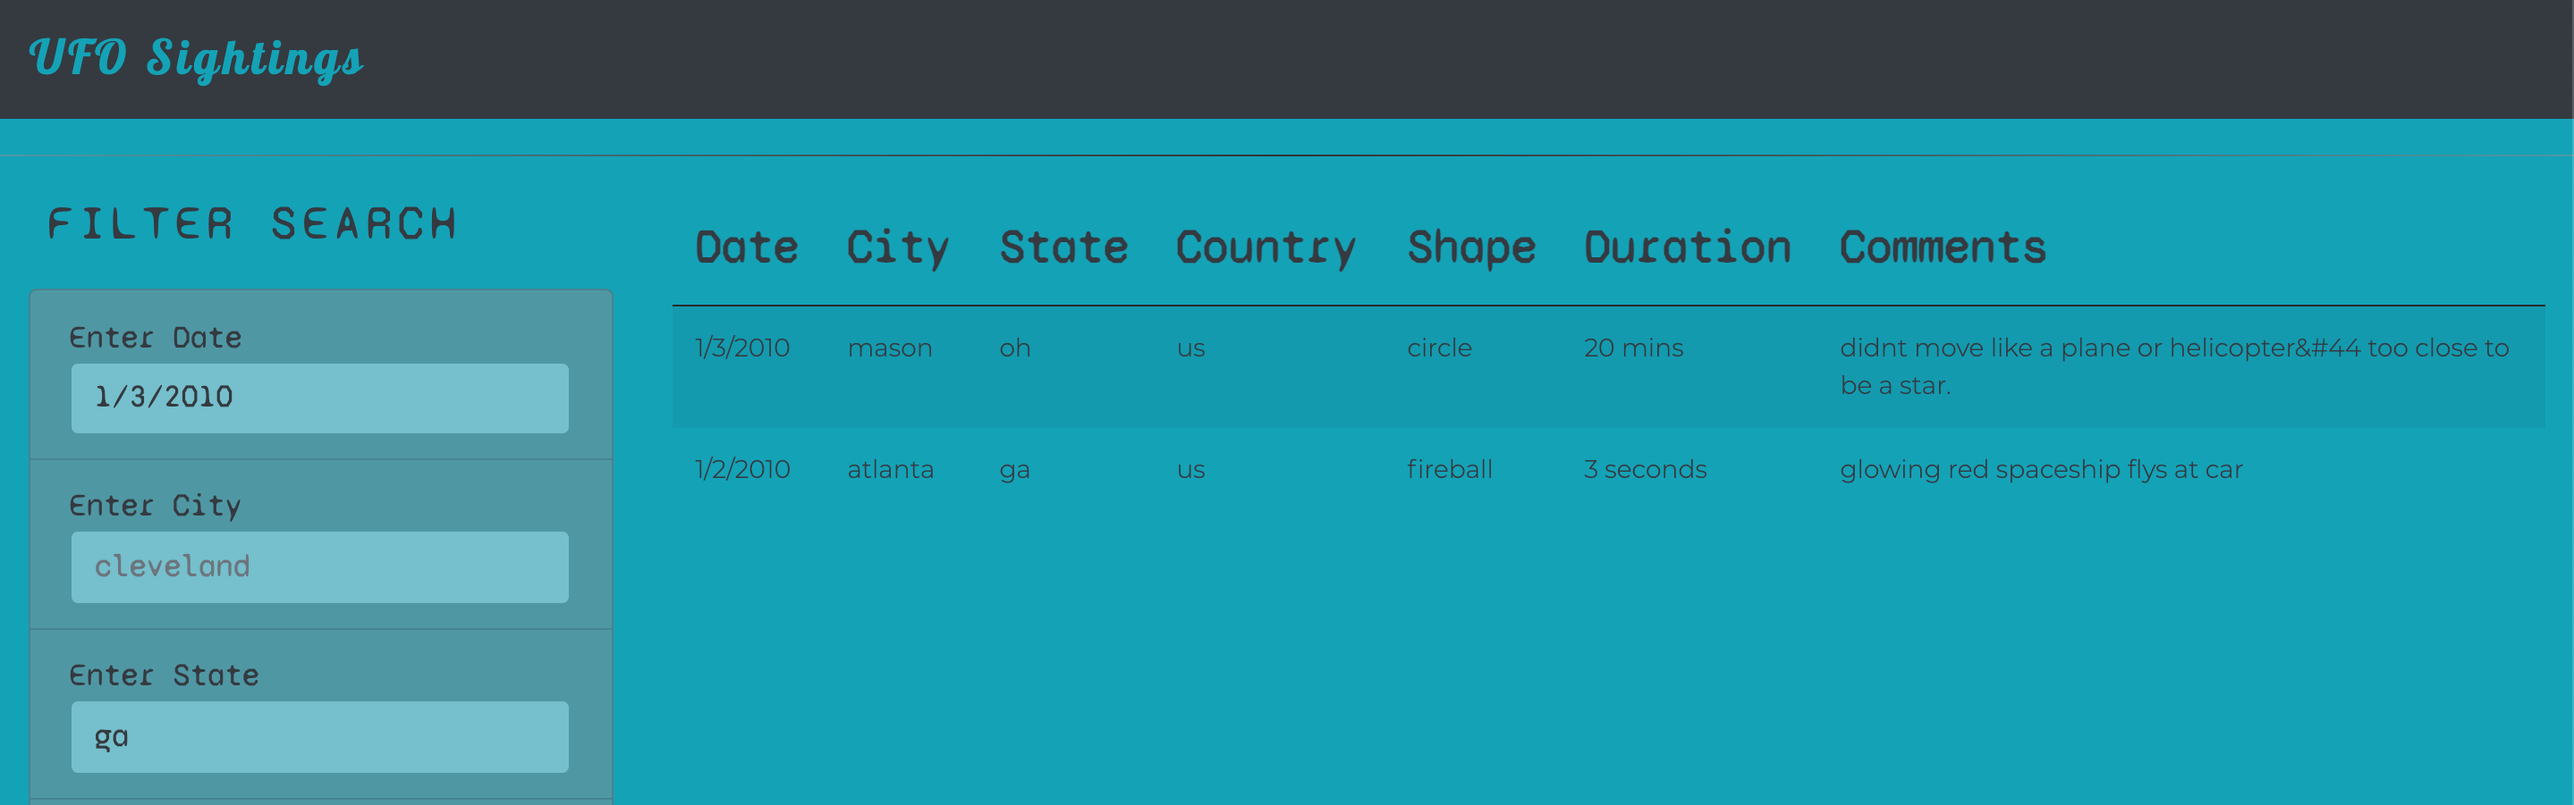
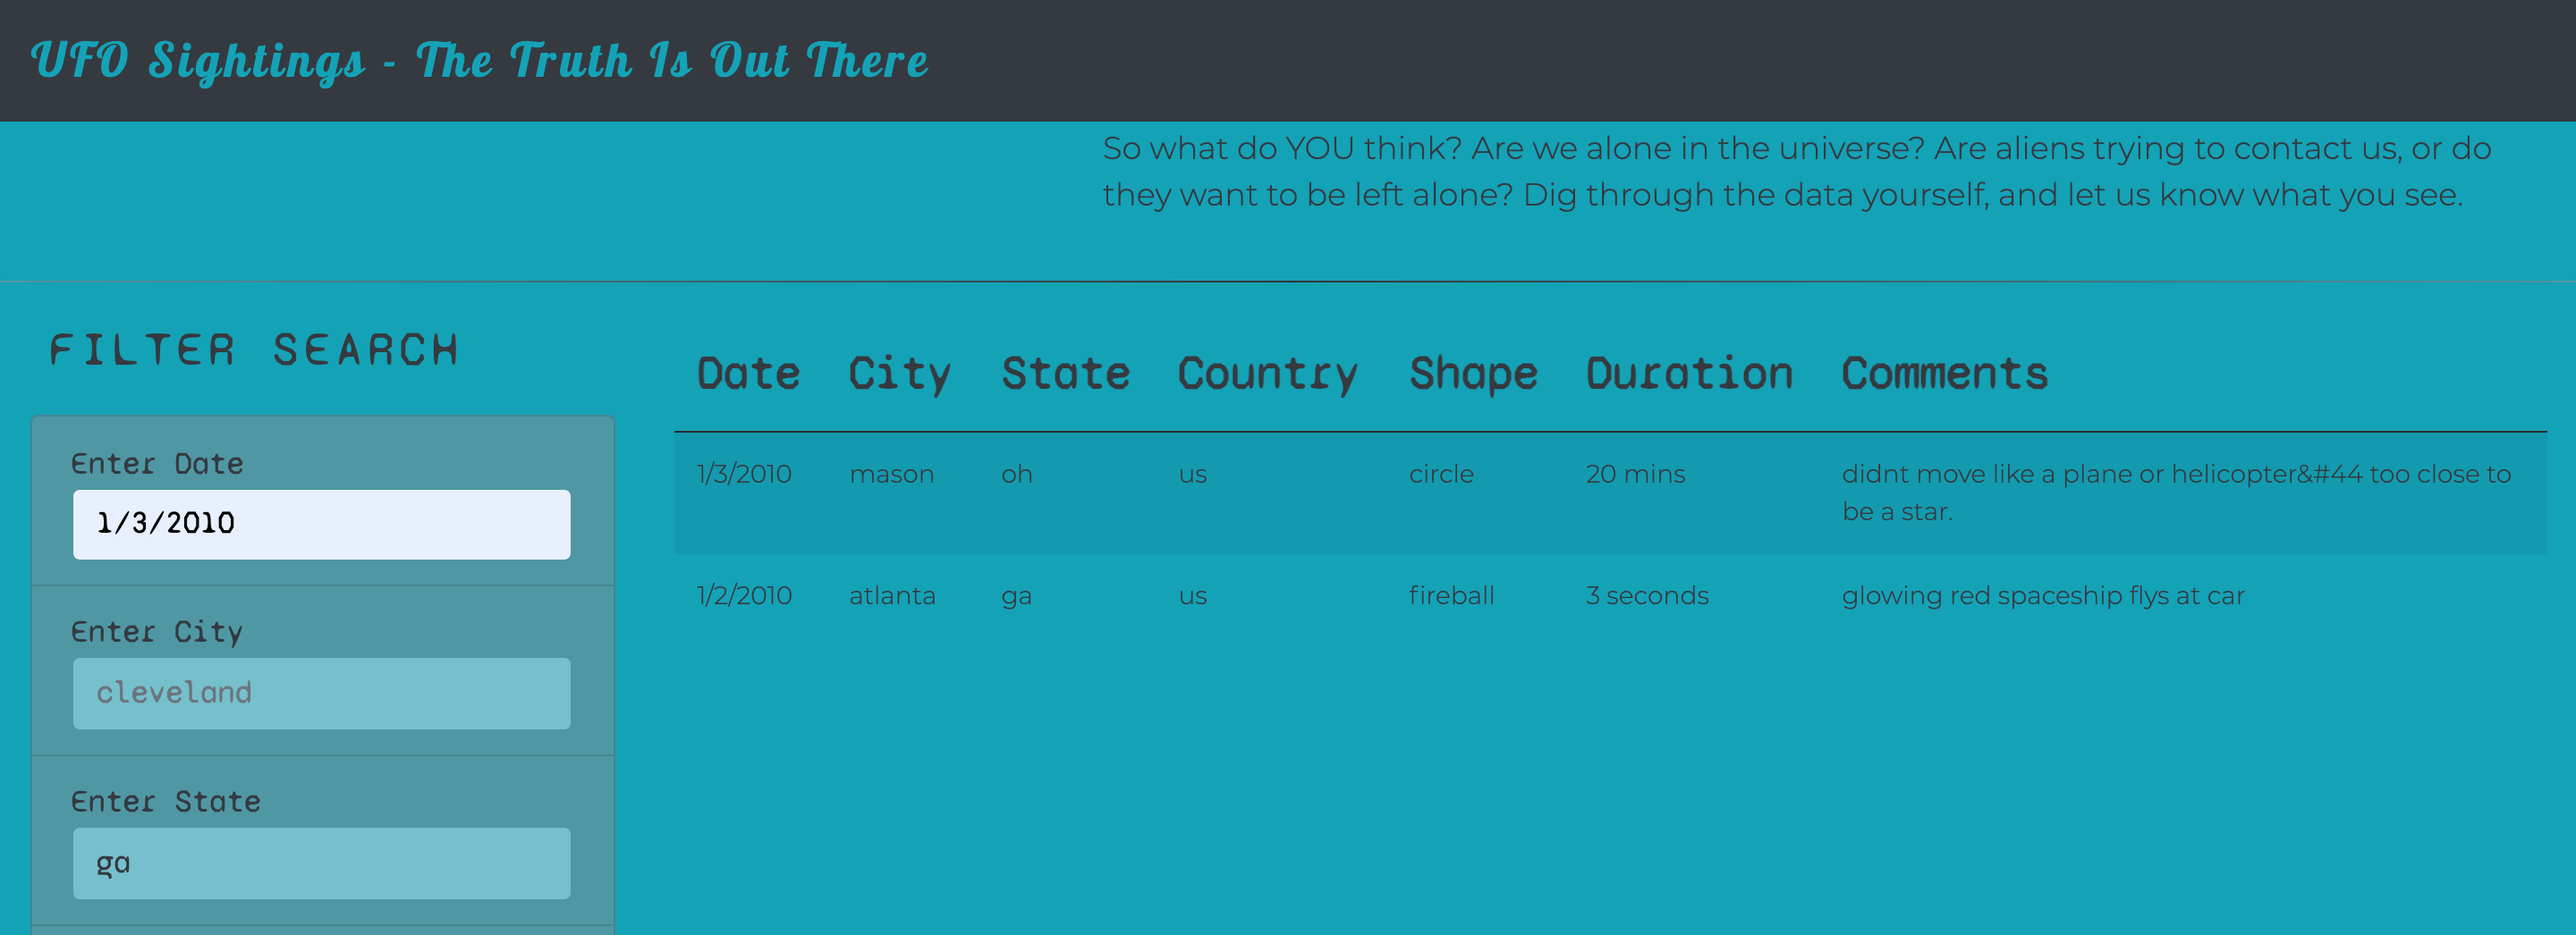
Cosmetic changes

diff --git a/Challenge/index.html b/Challenge/index.html
@@ -18,10 +18,11 @@
 <body class='bg-info text-dark'>
     <div class='wrapper'>
         <nav class='navbar navbar-dark bg-dark navbar-expand-lg sticky-top'>
-            <a class='navbar-brand text-info' href="index.html">UFO Sightings</a>
+            <a class='navbar-brand text-info' href="index.html">UFO Sightings - The Truth Is Out There</a>
+            <!-- <ul class='navbar-nav'><li class='navbar-item text-info'>- The Truth Is Out There</li></ul> -->
         </nav>
         <div class='jumbotron'>
-            <h1>The Truth Is Out There</h1>
+            <!-- <h1>The Truth Is Out There</h1> -->
         </div>
         <div class="container-fluid">
             <div class='row'>

diff --git a/Challenge/static/css/styles.css b/Challenge/static/css/styles.css
@@ -8,24 +8,16 @@ body {
 }
 
 .navbar-brand {
-    font-family: 'Lobster', cursive;
     font-size: x-large;
     letter-spacing: 0.15rem;
+    font-family: 'Lobster', cursive;
 }
 
 .jumbotron {
     background-image: url("../img/aliens.jpeg");
-    background-position: 50% 65%;
-    height: 330px !important;
+    background-position: 50% 62%;
+    height: 320px !important;
     border-radius: 0px;
-}
-
-.jumbotron h1 {
-    padding-top: 190px;
-    font-family: 'Raleway', sans-serif;
-    font-size: 3rem;
-    letter-spacing: 5px;
-    color: #5097A4;
 }
 
 .article-title {
